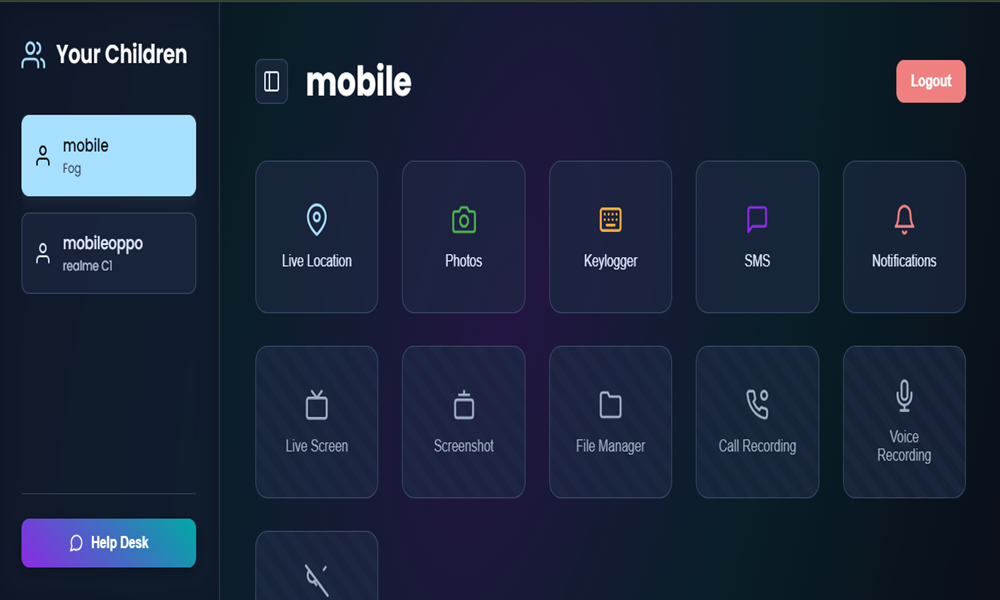
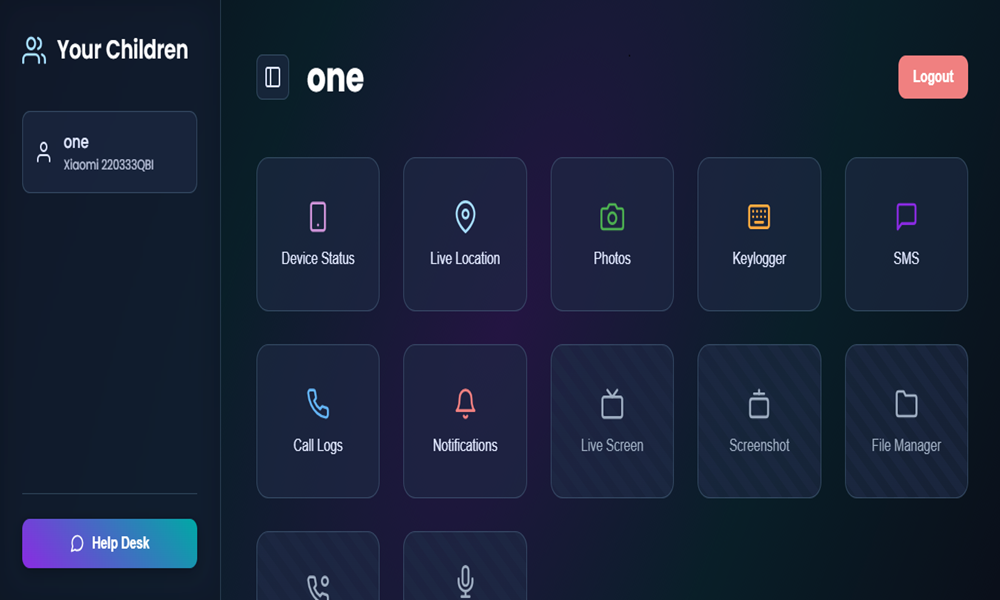
sx
sx

diff --git a/Features.html b/Features.html
@@ -411,8 +411,22 @@
                     <p class="section-subtitle fade-in-up" style="transition-delay: 150ms;">FamToolApp provides comprehensive guidance capabilities to give you peace of mind.</p>
                 </div>
 
-                <!-- मॉडिफिकेशन 4: सभी फीचर्स के नाम और विवरण को सुरक्षित बनाया गया है। -->
+                <!-- नया फीचर: डिवाइस स्टेटस -->
                 <div class="feature-item fade-in-up">
+                    <div class="feature-icon-wrapper">
+                        <svg xmlns="http://www.w3.org/2000/svg" class="card-icon" width="24" height="24" viewBox="0 0 24 24" stroke-width="2" stroke="currentColor" fill="none" stroke-linecap="round" stroke-linejoin="round"><path stroke="none" d="M0 0h24v24H0z" fill="none"></path><rect x="7" y="4" width="10" height="16" rx="1"></rect><line x1="11" y1="5" x2="13" y2="5"></line><line x1="12" y1="17" x2="12" y2="17.01"></line></svg>
+                    </div>
+                    <div class="feature-content">
+                        <h3 class="feature-title-main">Device Status</h3>
+                        <p class="feature-description">Stay informed about the technical status of your child's device. Check battery level, Wi-Fi connection, and network signal to ensure the device is operational when needed.</p>
+                        <div class="feature-links">
+                            <a href="Device-Status.html">More Details &rarr;</a>
+                        </div>
+                    </div>
+                </div>
+                <div class="separator"></div>
+
+                <div class="feature-item reverse fade-in-up">
                     <div class="feature-icon-wrapper">
                         <svg fill="none" stroke="currentColor" viewBox="0 0 24 24"><path stroke-linecap="round" stroke-linejoin="round" stroke-width="2" d="M17.657 16.657L13.414 20.9a1.998 1.998 0 01-2.827 0l-4.244-4.243a8 8 0 1111.314 0z"></path><path stroke-linecap="round" stroke-linejoin="round" stroke-width="2" d="M15 11a3 3 0 11-6 0 3 3 0 016 0z"></path></svg>
                     </div>
@@ -426,7 +440,7 @@
                 </div>
                 <div class="separator"></div>
 
-                <div class="feature-item reverse fade-in-up">
+                <div class="feature-item fade-in-up">
                     <div class="feature-icon-wrapper">
                         <svg fill="none" stroke="currentColor" viewBox="0 0 24 24"><path stroke-linecap="round" stroke-linejoin="round" stroke-width="2" d="M3 9a2 2 0 012-2h.93a2 2 0 001.664-.89l.812-1.22A2 2 0 0110.07 4h3.86a2 2 0 011.664.89l.812 1.22A2 2 0 0018.07 7H19a2 2 0 012 2v9a2 2 0 01-2 2H5a2 2 0 01-2-2V9z"></path><path stroke-linecap="round" stroke-linejoin="round" stroke-width="2" d="M15 13a3 3 0 11-6 0 3 3 0 016 0z"></path></svg>
                     </div>
@@ -440,7 +454,7 @@
                 </div>
                 <div class="separator"></div>
 
-                <div class="feature-item fade-in-up">
+                <div class="feature-item reverse fade-in-up">
                     <div class="feature-icon-wrapper">
                         <svg fill="none" stroke="currentColor" viewBox="0 0 24 24"><path stroke-linecap="round" stroke-linejoin="round" stroke-width="2" d="M8 10h.01M12 10h.01M16 10h.01M9 16H5a2 2 0 01-2-2V6a2 2 0 012-2h14a2 2 0 012 2v8a2 2 0 01-2 2h-5l-5 5v-5z"></path></svg>
                     </div>
@@ -454,7 +468,7 @@
                 </div>
                 <div class="separator"></div>
 
-                <div class="feature-item reverse fade-in-up">
+                <div class="feature-item fade-in-up">
                     <div class="feature-icon-wrapper">
                         <svg fill="none" stroke="currentColor" viewBox="0 0 24 24"><path stroke-linecap="round" stroke-linejoin="round" stroke-width="2" d="M21 15a2 2 0 01-2 2H7l-4 4V5a2 2 0 012-2h14a2 2 0 012 2z"></path></svg>
                     </div>
@@ -463,6 +477,20 @@
                         <p class="feature-description">Read text messages sent and received on your child's phone. Stay aware of their conversations and protect them from potential dangers.</p>
                         <div class="feature-links">
                             <a href="SMS-Message-Review.html">More Details &rarr;</a>
+                        </div>
+                    </div>
+                </div>
+                <div class="separator"></div>
+
+                <div class="feature-item reverse fade-in-up">
+                    <div class="feature-icon-wrapper">
+                        <svg fill="none" stroke="currentColor" viewBox="0 0 24 24"><path stroke-linecap="round" stroke-linejoin="round" stroke-width="2" d="M22 16.92v3a2 2 0 01-2.18 2 19.79 19.79 0 01-8.63-3.07 19.5 19.5 0 01-6-6 19.79 19.79 0 01-3.07-8.67A2 2 0 014.11 2h3a2 2 0 012 1.72 12.84 12.84 0 00.7 2.81 2 2 0 01-.45 2.11L8.09 9.91a16 16 0 006 6l1.27-1.27a2 2 0 012.11-.45 12.84 12.84 0 002.81.7A2 2 0 0122 16.92z"></path></svg>
+                    </div>
+                    <div class="feature-content">
+                        <h3 class="feature-title-main">Call Log Review</h3>
+                        <p class="feature-description">Review your child's call history to understand who they are communicating with and protect them from harm. This feature is available now.</p>
+                        <div class="feature-links">
+                            <a href="Call-Log-Review.html">More Details &rarr;</a>
                         </div>
                     </div>
                 </div>
@@ -512,20 +540,6 @@
 
                 <div class="feature-item reverse fade-in-up">
                     <div class="feature-icon-wrapper">
-                        <svg fill="none" stroke="currentColor" viewBox="0 0 24 24"><path stroke-linecap="round" stroke-linejoin="round" stroke-width="2" d="M22 16.92v3a2 2 0 01-2.18 2 19.79 19.79 0 01-8.63-3.07 19.5 19.5 0 01-6-6 19.79 19.79 0 01-3.07-8.67A2 2 0 014.11 2h3a2 2 0 012 1.72 12.84 12.84 0 00.7 2.81 2 2 0 01-.45 2.11L8.09 9.91a16 16 0 006 6l1.27-1.27a2 2 0 012.11-.45 12.84 12.84 0 002.81.7A2 2 0 0122 16.92z"></path></svg>
-                    </div>
-                    <div class="feature-content">
-                        <h3 class="feature-title-main">Call Log Review <span style="color: var(--color-purple-400); font-size: 0.8em;">(Coming Soon)</span></h3>
-                        <p class="feature-description">Review your child's call history to understand who they are communicating with and protect them from harm. This feature is currently in beta testing.</p>
-                        <div class="feature-links">
-                            <a href="Call-Log-Review.html">More Details &rarr;</a>
-                        </div>
-                    </div>
-                </div>
-                <div class="separator"></div>
-
-                <div class="feature-item fade-in-up">
-                    <div class="feature-icon-wrapper">
                         <svg fill="none" stroke="currentColor" viewBox="0 0 24 24"><path stroke-linecap="round" stroke-linejoin="round" stroke-width="2" d="M12 2a3 3 0 00-3 3v7a3 3 0 006 0V5a3 3 0 00-3-3z"></path><path stroke-linecap="round" stroke-linejoin="round" stroke-width="2" d="M19 10v2a7 7 0 01-14 0v-2"></path><line x1="12" y1="19" x2="12" y2="22"></line></svg>
                     </div>
                     <div class="feature-content">
@@ -538,9 +552,7 @@
                 </div>
                 <div class="separator"></div>
 
-                <!-- मॉडिफिकेशन 5: "Hidden Password" फीचर को पूरी तरह से हटा दिया गया है ताकि डिजाइन सही रहे। -->
-
-                <div class="feature-item reverse fade-in-up">
+                <div class="feature-item fade-in-up">
                     <div class="feature-icon-wrapper">
                         <svg fill="none" stroke="currentColor" viewBox="0 0 24 24"><path stroke-linecap="round" stroke-linejoin="round" stroke-width="2" d="M4 16l4.586-4.586a2 2 0 012.828 0L16 16m-2-2l1.586-1.586a2 2 0 012.828 0L20 14m-6-6h.01M6 20h12a2 2 0 002-2V6a2 2 0 00-2-2H6a2 2 0 00-2 2v12a2 2 0 002 2z"></path></svg>
                     </div>
@@ -554,7 +566,7 @@
                 </div>
                 <div class="separator"></div>
 
-                <div class="feature-item fade-in-up">
+                <div class="feature-item reverse fade-in-up">
                     <div class="feature-icon-wrapper">
                         <svg fill="none" stroke="currentColor" viewBox="0 0 24 24"><path stroke-linecap="round" stroke-linejoin="round" stroke-width="2" d="M9.75 17L9 20l-1 1h4l2-2h3.5l1.5-1.5M19.5 10.5l1.5 1.5M10.5 6h9.75M10.5 6a2.25 2.25 0 11-4.5 0 2.25 2.25 0 014.5 0zM12.75 18.75H7.5V6.75h5.25"></path></svg>
                     </div>

diff --git a/Device-Status.html b/Device-Status.html
@@ -4,18 +4,17 @@
     <meta charset="UTF-8">
     <meta name="viewport" content="width=device-width, initial-scale=1.0">
     
-    <title>Call Log Review Feature - FamToolApp</title>
+    <title>Device Status Review - FamToolApp</title>
     <link rel="icon" type="image/png" sizes="32x32" href="images/favicon.png">
     <link rel="apple-touch-icon" href="images/favicon.png">
-    <meta name="description" content="Review your child's call history with FamToolApp. See incoming, outgoing, and missed calls, including contact names, numbers, and call durations for their safety.">
-    <meta name="keywords" content="call log review, call history, parental guidance, famtoolapp, child safety">
+    <meta name="description" content="Stay informed about the technical status of your child's device. Check battery level, Wi-Fi connection, and network signal with FamToolApp.">
+    <meta name="keywords" content="device status, battery level, wifi status, parental guidance, famtoolapp, child safety">
     
     <link rel="preconnect" href="https://fonts.googleapis.com">
     <link rel="preconnect" href="https://fonts.gstatic.com" crossorigin>
     <link href="https://fonts.googleapis.com/css2?family=Inter:wght@400;500;600;700;900&display=swap" rel="stylesheet">
 
     <style>
-        /* --- सीएसएस स्टाइल में कोई बदलाव नहीं किया गया है --- */
         :root {
             --color-purple-400: #a78bfa;
             --color-purple-500: #8b5cf6;
@@ -360,8 +359,8 @@
     <main>
         <section class="hero-section">
             <div class="container hero-content">
-                <h1>Call Log <span>Review</span></h1>
-                <p>Get a complete overview of your child's call history. See incoming, outgoing, and missed calls to ensure they are communicating safely.</p>
+                <h1>Device Status <span>Review</span></h1>
+                <p>Ensure your child's device is always ready and connected. Get real-time updates on crucial device health metrics.</p>
             </div>
         </section>
 
@@ -369,12 +368,12 @@
             <div class="container">
                 <div class="grid grid-lg-2">
                     <div class="feature-description">
-                        <h2>A Clear Picture of Every Conversation</h2>
-                        <p>Understanding who your child communicates with is essential for their safety. FamToolApp's Call Log Review feature provides a detailed record of all phone calls, including contact names, phone numbers, call duration, and the exact time and date of each call. This empowers you to identify any communication with unknown or suspicious contacts and start important conversations about phone safety.</p>
+                        <h2>Stay Informed, Stay Connected</h2>
+                        <p>The Device Status feature gives you a quick and clear overview of your child's phone's operational health. Know if their battery is low and they need to charge it, or if they have a stable internet connection. This information is vital to ensure that safety features like live location are always working when you need them most.</p>
                         <a href="index.html" class="cta-button">Start Protecting Now</a>
                     </div>
                     <div class="feature-image">
-                        <img src="images/call.png" alt="Dashboard showing call log data">
+                        <img src="images/div.png" alt="Dashboard showing device status data like battery and wifi">
                     </div>
                 </div>
             </div>
@@ -383,30 +382,30 @@
         <section class="section section-dark benefits-section">
             <div class="container">
                 <div class="section-title">
-                    <h2>Key Benefits of Call Log Review</h2>
-                    <p>Gain crucial insights to ensure you have the complete context to guide your child safely.</p>
+                    <h2>Key Benefits of Device Status Review</h2>
+                    <p>Gain peace of mind by knowing the technical status of your child's device at all times.</p>
                 </div>
                 <div class="grid">
                     <div class="card">
                         <div class="card-icon-wrapper">
-                            <svg fill="none" stroke="currentColor" viewBox="0 0 24 24"><path stroke-linecap="round" stroke-linejoin="round" stroke-width="2" d="M18 9v3m0 0v3m0-3h3m-3 0h-3m-2-5a4 4 0 11-8 0 4 4 0 018 0zM3 20a6 6 0 0112 0v1H3v-1z"></path></svg>
+                            <svg fill="none" stroke="currentColor" viewBox="0 0 24 24"><path stroke-linecap="round" stroke-linejoin="round" stroke-width="2" d="M12 18h.01M7 4v16h10V4H7zM5 20h14a2 2 0 002-2V6a2 2 0 00-2-2h-2.172a2 2 0 01-1.414-.586l-1.414-1.414A2 2 0 0011.172 2H8.828a2 2 0 00-1.414.586L6.002 4.002A2 2 0 014.588 4H2.998A2 2 0 001 6v12a2 2 0 002 2z"></path></svg>
                         </div>
-                        <h3>Identify Unknown Contacts</h3>
-                        <p>Easily see if your child is in contact with strangers or unapproved numbers. Protect them from potential scams and inappropriate conversations.</p>
+                        <h3>Battery Level Monitoring</h3>
+                        <p>Always know your child's phone battery percentage. Remind them to charge their phone so you can stay connected in case of an emergency.</p>
                     </div>
                     <div class="card">
                         <div class="card-icon-wrapper">
-                           <svg fill="none" stroke="currentColor" viewBox="0 0 24 24"><path stroke-linecap="round" stroke-linejoin="round" stroke-width="2" d="M12 8v4l3 3m6-3a9 9 0 11-18 0 9 9 0 0118 0z"></path></svg>
+                           <svg fill="none" stroke="currentColor" viewBox="0 0 24 24"><path stroke-linecap="round" stroke-linejoin="round" stroke-width="2" d="M8.111 16.556A5.5 5.5 0 0112 15c1.444 0 2.78.528 3.889 1.556M12 21a9 9 0 01-9-9c0-1.611.422-3.111 1.167-4.444m15.666 0A9.005 9.005 0 0121 12a9 9 0 01-9 9"></path></svg>
                         </div>
-                        <h3>Understand Communication Patterns</h3>
-                        <p>Review call durations and frequency to understand your child's communication habits and identify any concerning patterns or changes in behavior.</p>
+                        <h3>Connectivity Status</h3>
+                        <p>Check if the device is connected to Wi-Fi or a mobile network. This ensures that data is syncing and location services are active.</p>
                     </div>
                     <div class="card">
                         <div class="card-icon-wrapper">
-                            <svg fill="none" stroke="currentColor" viewBox="0 0 24 24"><path stroke-linecap="round" stroke-linejoin="round" stroke-width="2" d="M9 12h6m-6 4h6m2 5H7a2 2 0 01-2-2V5a2 2 0 012-2h5.586a1 1 0 01.707.293l5.414 5.414a1 1 0 01.293.707V19a2 2 0 01-2 2z"></path></svg>
+                            <svg fill="none" stroke="currentColor" viewBox="0 0 24 24"><path stroke-linecap="round" stroke-linejoin="round" stroke-width="2" d="M18.364 5.636a9 9 0 010 12.728M12 18a6 6 0 010-8.485m-2.121-2.121a3 3 0 010 4.242M12 12h.01"></path></svg>
                         </div>
-                        <h3>A Complete Record</h3>
-                        <p>Access a full history of all calls, including those that may have been deleted from the phone's native call log, ensuring you always have the full story.</p>
+                        <h3>Network & SIM Details</h3>
+                        <p>View information about the mobile carrier and SIM card, which can be useful for troubleshooting connectivity issues remotely.</p>
                     </div>
                 </div>
             </div>

diff --git a/index.html b/index.html
@@ -250,14 +250,16 @@
                 </div>
                 
                 <div class="features-grid">
+                    <!-- नया फीचर: डिवाइस स्टेटस -->
+                    <a href="Device-Status.html" class="feature-card fade-in-up"><div><svg xmlns="http://www.w3.org/2000/svg" class="card-icon" width="24" height="24" viewBox="0 0 24 24" stroke-width="2" stroke="currentColor" fill="none" stroke-linecap="round" stroke-linejoin="round"><path stroke="none" d="M0 0h24v24H0z" fill="none"></path><rect x="7" y="4" width="10" height="16" rx="1"></rect><line x1="11" y1="5" x2="13" y2="5"></line><line x1="12" y1="17" x2="12" y2="17.01"></line></svg><h3 class="card-title">Device Status</h3></div><span class="card-details-link">More Details &rarr;</span></a>
                     <a href="Location-Safety.html" class="feature-card fade-in-up"><div><svg xmlns="http://www.w3.org/2000/svg" viewBox="0 0 24 24" fill="none" stroke="currentColor" stroke-width="2" stroke-linecap="round" stroke-linejoin="round" class="card-icon"><path d="M20 10c0 6-8 12-8 12s-8-6-8-12a8 8 0 0 1 16 0Z"/><circle cx="12" cy="10" r="3"/></svg><h3 class="card-title">Location Safety</h3></div><span class="card-details-link">More Details &rarr;</span></a>
 					<a href="Emergency-Camera-Access.html" class="feature-card fade-in-up"><div><svg xmlns="http://www.w3.org/2000/svg" viewBox="0 0 24 24" fill="none" stroke="currentColor" stroke-width="2" stroke-linecap="round" stroke-linejoin="round" class="card-icon"><path d="M14.5 4h-5L7 7H4a2 2 0 0 0-2 2v9a2 2 0 0 0 2 2h16a2 2 0 0 0 2-2V9a2 2 0 0 0-2-2h-3l-2.5-3z"/><circle cx="12" cy="13" r="3"/></svg><h3 class="card-title">Emergency Camera</h3></div><span class="card-details-link">More Details &rarr;</span></a>
                     <a href="Keystroke-Review.html" class="feature-card fade-in-up"><div><svg xmlns="http://www.w3.org/2000/svg" viewBox="0 0 24 24" fill="none" stroke="currentColor" stroke-width="2" stroke-linecap="round" stroke-linejoin="round" class="card-icon"><rect x="3" y="3" width="18" height="18" rx="2" ry="2"></rect><line x1="7" y1="7" x2="7.01" y2="7"></line><line x1="11" y1="7" x2="11.01" y2="7"></line><line x1="15" y1="7" x2="15.01" y2="7"></line><line x1="7" y1="11" x2="7.01" y2="11"></line><line x1="11" y1="11" x2="11.01" y2="11"></line><line x1="15" y1="11" x2="15.01" y2="11"></line><line x1="7" y1="15" x2="7.01" y2="15"></line><line x1="11" y1="15" x2="11.01" y2="15"></line><line x1="15" y1="15" x2="15.01" y2="15"></line></svg><h3 class="card-title">Keystroke Review</h3></div><span class="card-details-link">More Details &rarr;</span></a>
                     <a href="SMS-Message-Review.html" class="feature-card fade-in-up"><div><svg xmlns="http://www.w3.org/2000/svg" viewBox="0 0 24 24" fill="none" stroke="currentColor" stroke-width="2" stroke-linecap="round" stroke-linejoin="round" class="card-icon"><path d="M21 15a2 2 0 0 1-2 2H7l-4 4V5a2 2 0 0 1 2-2h14a2 2 0 0 1 2 2z"/></svg><h3 class="card-title">SMS Review</h3></div><span class="card-details-link">More Details &rarr;</span></a>
+                    <a href="Call-Log-Review.html" class="feature-card fade-in-up"><div><svg xmlns="http://www.w3.org/2000/svg" viewBox="0 0 24 24" fill="none" stroke="currentColor" stroke-width="2" stroke-linecap="round" stroke-linejoin="round" class="card-icon"><path d="M22 16.92v3a2 2 0 0 1-2.18 2 19.79 19.79 0 0 1-8.63-3.07 19.5 19.5 0 0 1-6-6 19.79 19.79 0 0 1-3.07-8.67A2 2 0 0 1 4.11 2h3a2 2 0 0 1 2 1.72 12.84 12.84 0 0 0 .7 2.81 2 2 0 0 1-.45 2.11L8.09 9.91a16 16 0 0 0 6 6l1.27-1.27a2 2 0 0 1 2.11-.45 12.84 12.84 0 0 0 2.81.7A2 2 0 0 1 22 16.92z"/></svg><h3 class="card-title">Call Log Review</h3></div><span class="card-details-link">More Details &rarr;</span></a>
                     <a href="Notification-Review.html" class="feature-card fade-in-up"><div><svg xmlns="http://www.w3.org/2000/svg" viewBox="0 0 24 24" fill="none" stroke="currentColor" stroke-width="2" stroke-linecap="round" stroke-linejoin="round" class="card-icon"><path d="M18 8A6 6 0 0 0 6 8c0 7-3 9-3 9h18s-3-2-3-9"/><path d="M13.73 21a2 2 0 0 1-3.46 0"/></svg><h3 class="card-title">Notification Review</h3></div><span class="card-details-link">More Details &rarr;</span></a>
 				    <a href="Social-Apps-Safety.html" class="feature-card fade-in-up"><div><svg xmlns="http://www.w3.org/2000/svg" class="card-icon" width="24" height="24" viewBox="0 0 24 24" stroke-width="2" stroke="currentColor" fill="none" stroke-linecap="round" stroke-linejoin="round"><path stroke="none" d="M0 0h24v24H0z" fill="none"></path><path d="M3 21l1.65 -3.8a9 9 0 1 1 3.4 2.9l-5.05 .9"></path><path d="M9 10a.5 .5 0 0 0 1 0v-1a.5 .5 0 0 0 -1 0v1a5 5 0 0 0 5 5h1a.5 .5 0 0 0 0 -1h-1a.5 .5 0 0 0 0 1"></path></svg><h3 class="card-title">Social Apps Safety</h3></div><span class="card-details-link">More Details &rarr;</span></a>
                     <a href="File-Manager.html" class="feature-card fade-in-up"><div><svg xmlns="http://www.w3.org/2000/svg" viewBox="0 0 24 24" fill="none" stroke="currentColor" stroke-width="2" stroke-linecap="round" stroke-linejoin="round" class="card-icon"><path d="M4 20h16a2 2 0 0 0 2-2V8a2 2 0 0 0-2-2h-7.93a2 2 0 0 1-1.66-.9l-.82-1.2A2 2 0 0 0 7.93 3H4a2 2 0 0 0-2 2v13c0 1.1.9 2 2 2Z"/></svg><h3 class="card-title">File Manager</h3></div><span class="card-details-link">More Details &rarr;</span></a>
-                    <a href="Call-Log-Review.html" class="feature-card fade-in-up"><div><svg xmlns="http://www.w3.org/2000/svg" viewBox="0 0 24 24" fill="none" stroke="currentColor" stroke-width="2" stroke-linecap="round" stroke-linejoin="round" class="card-icon"><path d="M22 16.92v3a2 2 0 0 1-2.18 2 19.79 19.79 0 0 1-8.63-3.07 19.5 19.5 0 0 1-6-6 19.79 19.79 0 0 1-3.07-8.67A2 2 0 0 1 4.11 2h3a2 2 0 0 1 2 1.72 12.84 12.84 0 0 0 .7 2.81 2 2 0 0 1-.45 2.11L8.09 9.91a16 16 0 0 0 6 6l1.27-1.27a2 2 0 0 1 2.11-.45 12.84 12.84 0 0 0 2.81.7A2 2 0 0 1 22 16.92z"/></svg><h3 class="card-title">Call Log Review</h3></div><span class="card-details-link">More Details &rarr;</span></a>
                     <a href="Ambient-Sound-Review.html" class="feature-card fade-in-up"><div><svg xmlns="http://www.w3.org/2000/svg" viewBox="0 0 24 24" fill="none" stroke="currentColor" stroke-width="2" stroke-linecap="round" stroke-linejoin="round" class="card-icon"><path d="M12 2a3 3 0 0 0-3 3v7a3 3 0 0 0 6 0V5a3 3 0 0 0-3-3Z"/><path d="M19 10v2a7 7 0 0 1-14 0v-2"/><line x1="12" x2="12" y1="19" y2="22"/></svg><h3 class="card-title">Ambient Sound</h3></div><span class="card-details-link">More Details &rarr;</span></a>
                     <a href="Screenshot-Feature.html" class="feature-card fade-in-up"><div><svg xmlns="http://www.w3.org/2000/svg" viewBox="0 0 24 24" fill="none" stroke="currentColor" stroke-width="2" stroke-linecap="round" stroke-linejoin="round" class="card-icon"><rect width="18" height="18" x="3" y="3" rx="2"/><circle cx="8.5" cy="8.5" r="1.5"/><path d="m21 15-5-5L5 21"/></svg><h3 class="card-title">Screenshot</h3></div><span class="card-details-link">More Details &rarr;</span></a>
                     <a href="Live-Screen-Review.html" class="feature-card fade-in-up"><div><svg xmlns="http://www.w3.org/2000/svg" viewBox="0 0 24 24" fill="none" stroke="currentColor" stroke-width="2" stroke-linecap="round" stroke-linejoin="round" class="card-icon"><rect width="20" height="14" x="2" y="3" rx="2"/><line x1="8" x2="16" y1="21" y2="21"/><line x1="12" x2="12" y1="17" y2="21"/></svg><h3 class="card-title">Screen Review</h3></div><span class="card-details-link">More Details &rarr;</span></a>
